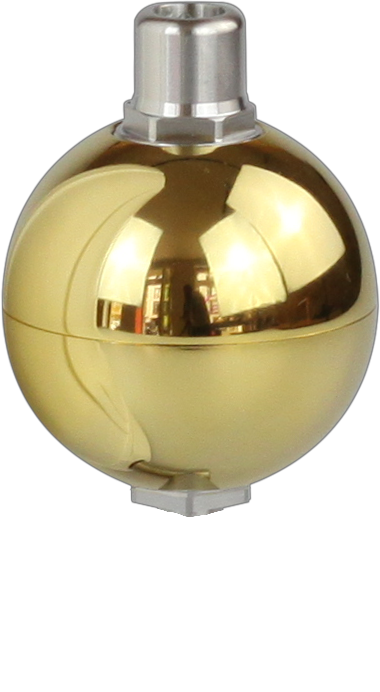
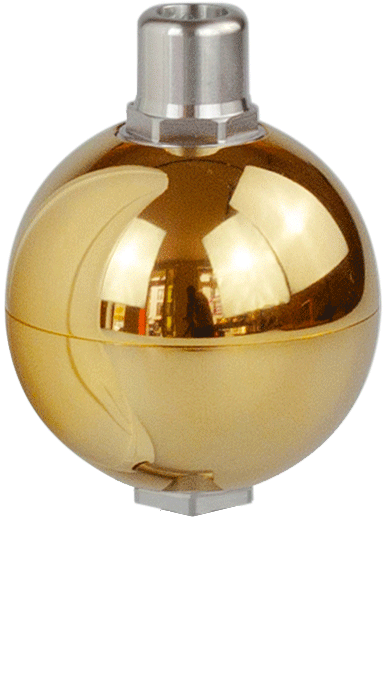
Update ball images and position

diff --git a/index.html b/index.html
@@ -13,7 +13,7 @@
     <script src="https://cdnjs.cloudflare.com/ajax/libs/gsap/3.3.0/gsap.min.js"></script>
     <script src="https://cdnjs.cloudflare.com/ajax/libs/gsap/3.3.0/CSSRulePlugin.min.js"></script>
 
-    <link rel="stylesheet" href="style.css?v=15">
+    <link rel="stylesheet" href="style.css?v=16">
 </head>
 <body>
     <div id="app">
@@ -25,7 +25,7 @@
         <img class="block base" src="images/main.jpg">
         <img class="block base layer-2" src="images/main-layer-2.jpg">
         <img class="block filter" src="images/filter-top.png" />
-        <img class="block ball" src="images/gold-ball.png" />
+        <img class="block ball" src="images/gold-ball.png?v=1" />
         <img class="block faucet" src="images/faucet.png" />
 
         <div class="hint cartridge-hint">

diff --git a/style.css b/style.css
@@ -35,10 +35,11 @@ body {
 }
 
 .ball {
-  width: 7.7vw;
-  margin-left: 10.45vw;
-  margin-top: -1.1vw;
+  width: 8vw;
+  margin-left: 10.3vw;
+  margin-top: -1.15vw;
   z-index: 2;
+  transform: rotate(1deg);
 }
 
 .filter {
@@ -50,8 +51,8 @@ body {
 
 .faucet {
   width: 24vw;
-  margin-left: 9.7vw;
-  margin-top: -28.1vw;
+  margin-left: 9.85vw;
+  margin-top: -28.2vw;
   z-index: 4;
   transform: rotate(1.8deg);
 }
